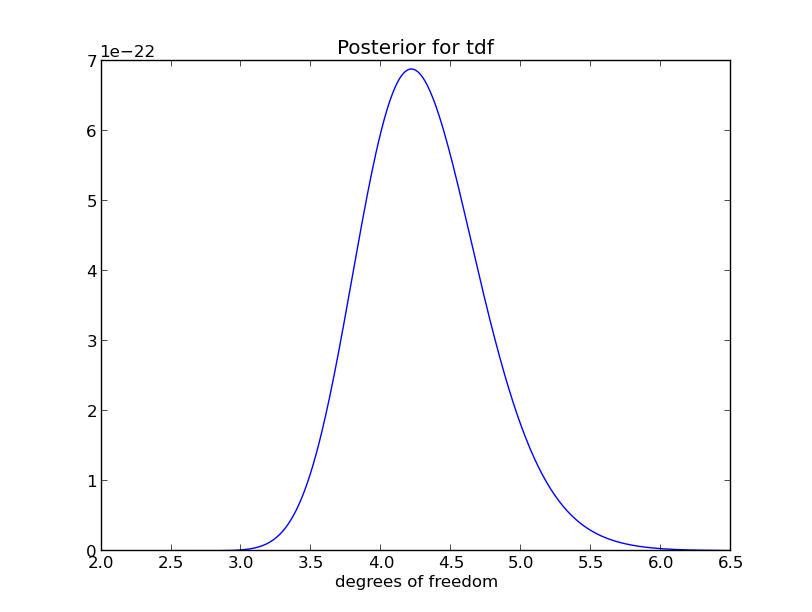
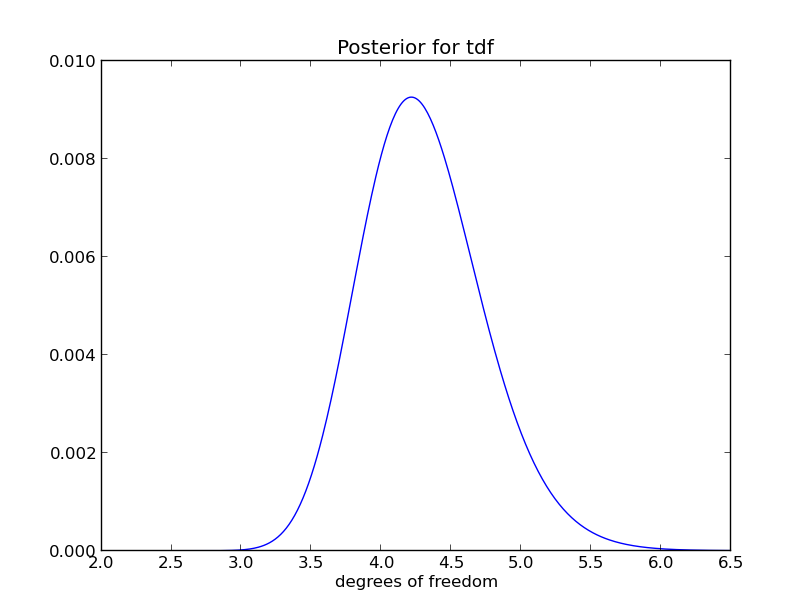
added normalization to analytical

diff --git a/tdf/Venture/calcPost.py b/tdf/Venture/calcPost.py
@@ -28,12 +28,31 @@ if __name__ == "__main__":
 
   ls = []
   ds = []
-  for d in np.arange(2,100,0.1):
-    ls.append(logLiks(samples, d))
-    ds.append(d)
+  tp = "ll"
+
+  if tp == "l":
+    norm = 0.0
+    fac = 5
+    title = "Posterior for tdf"
+    for d in np.arange(2,100,0.01):
+      #print d
+      cur = liks(samples, d, fac)
+      norm += cur
+      if d <= 6.5:
+        ls.append(cur)
+        ds.append(d)
+
+    ls = [l/norm for l in ls]
+    print sum(ls)
+
+  elif tp == "ll":
+    title = "Log Likelihood for tdf"
+    for d in np.arange(2,100,0.1):
+      ls.append(logLiks(samples, d))
+      ds.append(d)
 
   plt.plot(ds, ls)
-  plt.title("Log Likelihood tdf")
+  plt.title(title)
   plt.xlabel("degrees of freedom")
   plt.show()
 
